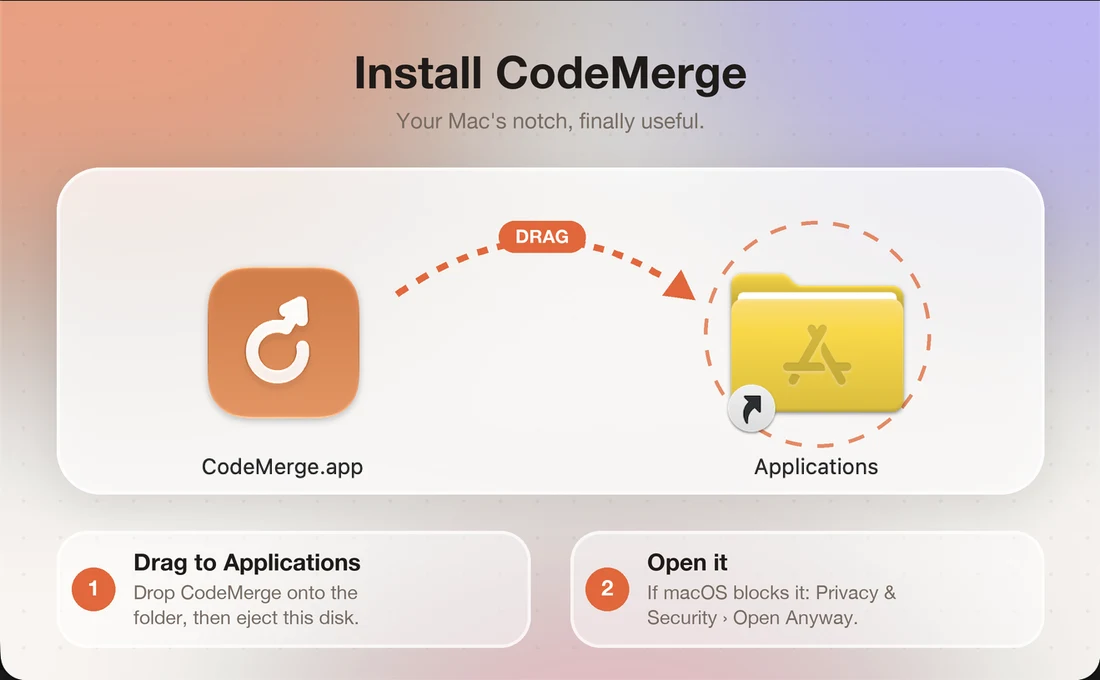
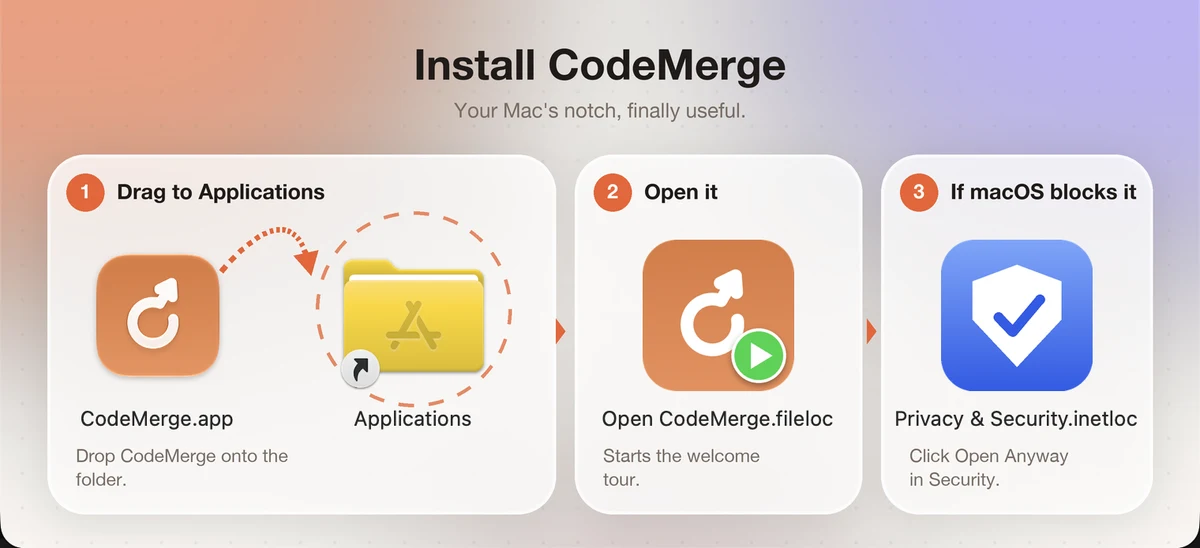
Install: DMG with Open CodeMerge and Privacy & Security buttons; guide and README updated

diff --git a/docs/index.html b/docs/index.html
@@ -8,7 +8,7 @@
 <meta name="theme-color" content="#0a090c">
 <link rel="icon" href="assets/app-icon.png">
 <script>document.documentElement.className="js"</script>
-<link rel="stylesheet" href="styles.css?v=1792479961">
+<link rel="stylesheet" href="styles.css?v=1792480381">
 </head><body>
 <svg width="0" height="0" style="position:absolute" aria-hidden="true"><defs><linearGradient id="ig" gradientUnits="userSpaceOnUse" x1="0" y1="0" x2="24" y2="24"><stop offset="0" stop-color="#ffa36b"/><stop offset="1" stop-color="#f26b35"/></linearGradient></defs></svg>
 <div id="veil" aria-hidden="true"><img decoding="async" src="assets/app-icon.png" alt=""></div>
@@ -154,16 +154,16 @@ brew install --cask codemerge</code><button>Copy</button></div></div>
      <div class="gdl"><img decoding="async" src="assets/app-icon.png" alt=""><span><b>CodeMerge.dmg</b><small>12 MB</small></span><i></i></div>
     </div>
     <div class="gview" data-v="1">
-     <h3>Drag it onto Applications</h3><p>Double-click the downloaded file. A window opens — drag <b>CodeMerge</b> onto <b>Applications</b>.</p>
+     <h3>Drag it onto Applications</h3><p>Double-click the downloaded file. A window opens — drag <b>CodeMerge</b> onto <b>Applications</b>. It has everything you need: buttons for the next two steps are right there.</p>
      <div class="gdmg"><img decoding="async" src="assets/install/dmg-window.webp" alt="The CodeMerge disk image window" loading="lazy"><img decoding="async" class="ghost" src="assets/app-icon.png" alt="" aria-hidden="true"><svg class="gcur" viewBox="0 0 24 24" aria-hidden="true"><path d="M5 3l14 8-6 2 4 7-3 1-4-7-5 4z" fill="#fff" stroke="#111" stroke-width="1.4" stroke-linejoin="round"/></svg></div>
     </div>
     <div class="gview" data-v="2">
-     <h3>Open CodeMerge</h3><p>Open it from <b>Applications</b> or Launchpad. The first time, macOS may say it can't check the app for malware — normal for apps outside the App Store.</p>
+     <h3>Open CodeMerge</h3><p>In the same window, double-click <b>Open CodeMerge</b> (or open it from Applications or Launchpad). The first time, macOS may say it can't check the app for malware — normal for apps outside the App Store.</p>
      <div class="gmac"><div class="gdlg"><svg class="gsh" viewBox="0 0 96 96" aria-hidden="true"><rect x="6" y="4" width="80" height="80" rx="20" fill="#d9d9de"/><circle cx="46" cy="44" r="27" fill="#8e8e93"/><circle cx="46" cy="44" r="19" fill="#c7c7cc"/><circle cx="46" cy="44" r="6" fill="#636366"/><path d="M70 52l22 38H48z" fill="#ffd60a" stroke="#fff" stroke-width="3" stroke-linejoin="round"/><path d="M70 64v13" stroke="#3a3a3c" stroke-width="4" stroke-linecap="round"/><circle cx="70" cy="83" r="2.6" fill="#3a3a3c"/></svg><b>“CodeMerge.app” Not Opened</b><span>Apple could not verify “CodeMerge.app” is free of malware that may harm your Mac or compromise your privacy.</span><div class="gbtns"><u class="red">Move to Trash</u><u class="pri">Done</u></div></div></div>
      <p class="fine">Click <b>Done</b> — not Move to Trash. The next step takes ten seconds.</p>
     </div>
     <div class="gview" data-v="3">
-     <h3>Allow it, once</h3><p>Open <b>System Settings → Privacy &amp; Security</b>, scroll to <b>Security</b> and click <b>Open Anyway</b>. Then click Open. You never do this again.</p>
+     <h3>Allow it, once</h3><p>Double-click <b>Privacy &amp; Security</b> in the disk image window — it opens System Settings straight at Security. Click <b>Open Anyway</b>, then Open. You never do this again.</p>
      <div class="gmac"><div class="gset"><b>Security</b><div class="grow"><span>“CodeMerge” was blocked to protect your Mac.</span><u class="pri pulse">Open Anyway</u></div></div></div>
      <p class="fine">Tip: right-click the app → <b>Open</b> does the same in one step.</p>
     </div>
@@ -208,4 +208,4 @@ brew install --cask codemerge</code><button>Copy</button></div></div>
 <a href="https://github.com/harelyaish/CodeMerge">GitHub</a><a href="./#help">Help</a><a href="features.html">Features</a><a href="updates.html">Changelog</a><a href="cards.html">Share cards</a>
 <a href="https://github.com/harelyaish/CodeMerge/releases.atom">RSS</a><a href="https://www.paypal.com/paypalme/HarelYaish">Tip</a>
 </div></footer>
-<script src="app.js?v=1792479961"></script></body></html>
+<script src="app.js?v=1792480381"></script></body></html>

diff --git a/docs/styles.css b/docs/styles.css
@@ -519,10 +519,10 @@ html:not(.js) #veil{display:none}
 @keyframes gfill{0%{transform:scaleX(0)}80%,100%{transform:scaleX(1)}}
 .gdmg{position:relative;max-width:560px;border-radius:14px;overflow:hidden;box-shadow:0 20px 50px rgba(0,0,0,.3);border:1px solid var(--glass-line)}
 .gdmg>img:first-child{display:block;width:100%}
-.gdmg .ghost{position:absolute;width:13.8%;left:18.8%;top:39%;border-radius:22%;animation:gdrag 4s cubic-bezier(.6,0,.3,1) infinite;filter:drop-shadow(0 6px 10px rgba(0,0,0,.3))}
-.gdmg .gcur{position:absolute;width:5%;left:27%;top:48%;animation:gcur 4s cubic-bezier(.6,0,.3,1) infinite;filter:drop-shadow(0 2px 3px rgba(0,0,0,.4))}
-@keyframes gdrag{0%,12%{transform:translate(0,0) scale(1);opacity:0}16%{opacity:1}70%,86%{transform:translate(350%,0) scale(.7);opacity:1}100%{transform:translate(350%,0) scale(.4);opacity:0}}
-@keyframes gcur{0%,12%{transform:translate(0,0)}70%,86%{transform:translate(970%,0)}100%{transform:translate(970%,0);opacity:0}}
+.gdmg .ghost{position:absolute;width:12.6%;left:6.8%;top:43.9%;border-radius:22%;animation:gdrag 4s cubic-bezier(.6,0,.3,1) infinite;filter:drop-shadow(0 6px 10px rgba(0,0,0,.3))}
+.gdmg .gcur{position:absolute;width:5%;left:12%;top:55%;animation:gcur 4s cubic-bezier(.6,0,.3,1) infinite;filter:drop-shadow(0 2px 3px rgba(0,0,0,.4))}
+@keyframes gdrag{0%,12%{transform:translate(0,0) scale(1);opacity:0}16%{opacity:1}70%,86%{transform:translate(169%,0) scale(.7);opacity:1}100%{transform:translate(169%,0) scale(.4);opacity:0}}
+@keyframes gcur{0%,12%{transform:translate(0,0)}70%,86%{transform:translate(426%,0)}100%{transform:translate(426%,0);opacity:0}}
 .gmac{display:grid;place-items:center;padding:26px 14px;border-radius:18px;background:linear-gradient(135deg,#6a5cff55,#ff5fa255,#ff8a4c55);border:1px solid var(--glass-line)}
 .gdlg{width:min(330px,100%);background:#f4f4f6;color:#1d1d1f;border-radius:18px;padding:18px;text-align:center;box-shadow:0 20px 50px rgba(0,0,0,.3);display:flex;flex-direction:column;gap:8px;align-items:center}
 .gdlg img{width:52px;height:52px;border-radius:12px}.gdlg b{font-size:15px}.gdlg span{font-size:12.5px;color:#555}

diff --git a/docs/cards.html b/docs/cards.html
@@ -8,7 +8,7 @@
 <meta name="theme-color" content="#0a090c">
 <link rel="icon" href="assets/app-icon.png">
 <script>document.documentElement.className="js"</script>
-<link rel="stylesheet" href="styles.css?v=1792479961">
+<link rel="stylesheet" href="styles.css?v=1792480381">
 </head><body>
 <svg width="0" height="0" style="position:absolute" aria-hidden="true"><defs><linearGradient id="ig" gradientUnits="userSpaceOnUse" x1="0" y1="0" x2="24" y2="24"><stop offset="0" stop-color="#ffa36b"/><stop offset="1" stop-color="#f26b35"/></linearGradient></defs></svg>
 <div id="veil" aria-hidden="true"><img src="assets/app-icon.png" alt=""></div>
@@ -85,4 +85,4 @@ document.getElementById("dl").onclick=()=>c.toBlob(bl=>{const a=document.createE
 <a href="https://github.com/harelyaish/CodeMerge">GitHub</a><a href="./#help">Help</a><a href="features.html">Features</a><a href="updates.html">Changelog</a><a href="cards.html">Share cards</a>
 <a href="https://github.com/harelyaish/CodeMerge/releases.atom">RSS</a><a href="https://www.paypal.com/paypalme/HarelYaish">Tip</a>
 </div></footer>
-<script src="app.js?v=1792479961"></script></body></html>
+<script src="app.js?v=1792480381"></script></body></html>

diff --git a/docs/updates.html b/docs/updates.html
@@ -8,7 +8,7 @@
 <meta name="theme-color" content="#0a090c">
 <link rel="icon" href="assets/app-icon.png">
 <script>document.documentElement.className="js"</script>
-<link rel="stylesheet" href="styles.css?v=1792479961">
+<link rel="stylesheet" href="styles.css?v=1792480381">
 </head><body>
 <svg width="0" height="0" style="position:absolute" aria-hidden="true"><defs><linearGradient id="ig" gradientUnits="userSpaceOnUse" x1="0" y1="0" x2="24" y2="24"><stop offset="0" stop-color="#ffa36b"/><stop offset="1" stop-color="#f26b35"/></linearGradient></defs></svg>
 <div id="veil" aria-hidden="true"><img src="assets/app-icon.png" alt=""></div>
@@ -39,4 +39,4 @@ fetch("https://api.github.com/repos/harelyaish/CodeMerge/releases").then(functio
 <a href="https://github.com/harelyaish/CodeMerge">GitHub</a><a href="./#help">Help</a><a href="features.html">Features</a><a href="updates.html">Changelog</a><a href="cards.html">Share cards</a>
 <a href="https://github.com/harelyaish/CodeMerge/releases.atom">RSS</a><a href="https://www.paypal.com/paypalme/HarelYaish">Tip</a>
 </div></footer>
-<script src="app.js?v=1792479961"></script></body></html>
+<script src="app.js?v=1792480381"></script></body></html>

diff --git a/docs/features.html b/docs/features.html
@@ -8,7 +8,7 @@
 <meta name="theme-color" content="#0a090c">
 <link rel="icon" href="assets/app-icon.png">
 <script>document.documentElement.className="js"</script>
-<link rel="stylesheet" href="styles.css?v=1792479961">
+<link rel="stylesheet" href="styles.css?v=1792480381">
 </head><body>
 <svg width="0" height="0" style="position:absolute" aria-hidden="true"><defs><linearGradient id="ig" gradientUnits="userSpaceOnUse" x1="0" y1="0" x2="24" y2="24"><stop offset="0" stop-color="#ffa36b"/><stop offset="1" stop-color="#f26b35"/></linearGradient></defs></svg>
 <div id="veil" aria-hidden="true"><img src="assets/app-icon.png" alt=""></div>
@@ -33,4 +33,4 @@
 <a href="https://github.com/harelyaish/CodeMerge">GitHub</a><a href="./#help">Help</a><a href="features.html">Features</a><a href="updates.html">Changelog</a><a href="cards.html">Share cards</a>
 <a href="https://github.com/harelyaish/CodeMerge/releases.atom">RSS</a><a href="https://www.paypal.com/paypalme/HarelYaish">Tip</a>
 </div></footer>
-<script src="app.js?v=1792479961"></script></body></html>
+<script src="app.js?v=1792480381"></script></body></html>

diff --git a/README.md b/README.md
@@ -79,7 +79,7 @@ That downloads the app, installs it to `/Applications`, and opens it — no extr
 
 <p align="center"><img src="https://raw.githubusercontent.com/harelyaish/CodeMerge/main/docs/assets/readme/dmg-window.png" alt="The CodeMerge disk image: drag the app onto Applications" width="560"></p>
 
-Because this went through a browser, macOS marks the file "quarantined" and will refuse to open the app the first time — see **[If macOS won't open the app](#if-macos-wont-open-the-app)** below for the exact steps (it takes ten seconds). There's also a [zip](https://github.com/harelyaish/CodeMerge/releases/latest/download/CodeMerge.zip) if you'd rather unzip it yourself, and an [interactive install guide](https://harelyaish.github.io/CodeMerge/#install) on the website.
+The window has a button for each step: **Open CodeMerge** launches the installed app, and **Privacy & Security** opens System Settings straight at the Security section. Because this went through a browser, macOS marks the file "quarantined" and will refuse to open the app the first time — see **[If macOS won't open the app](#if-macos-wont-open-the-app)** below for the exact steps (it takes ten seconds). There's also a [zip](https://github.com/harelyaish/CodeMerge/releases/latest/download/CodeMerge.zip) if you'd rather unzip it yourself, and an [interactive install guide](https://harelyaish.github.io/CodeMerge/#install) on the website.
 
 ### Prefer Homebrew?
 
